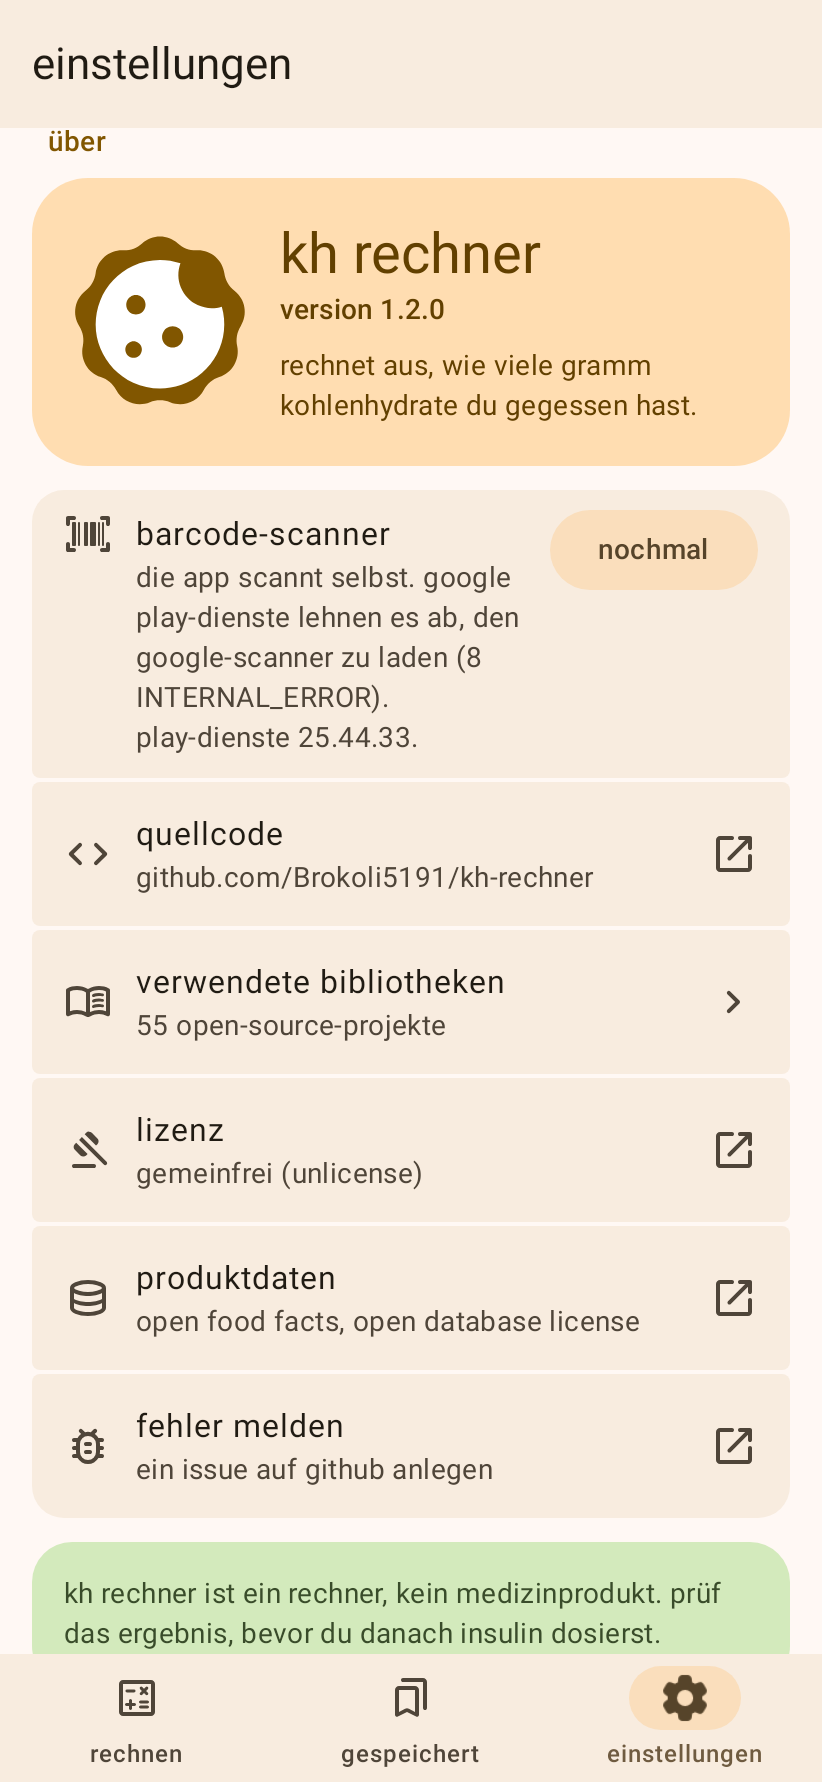
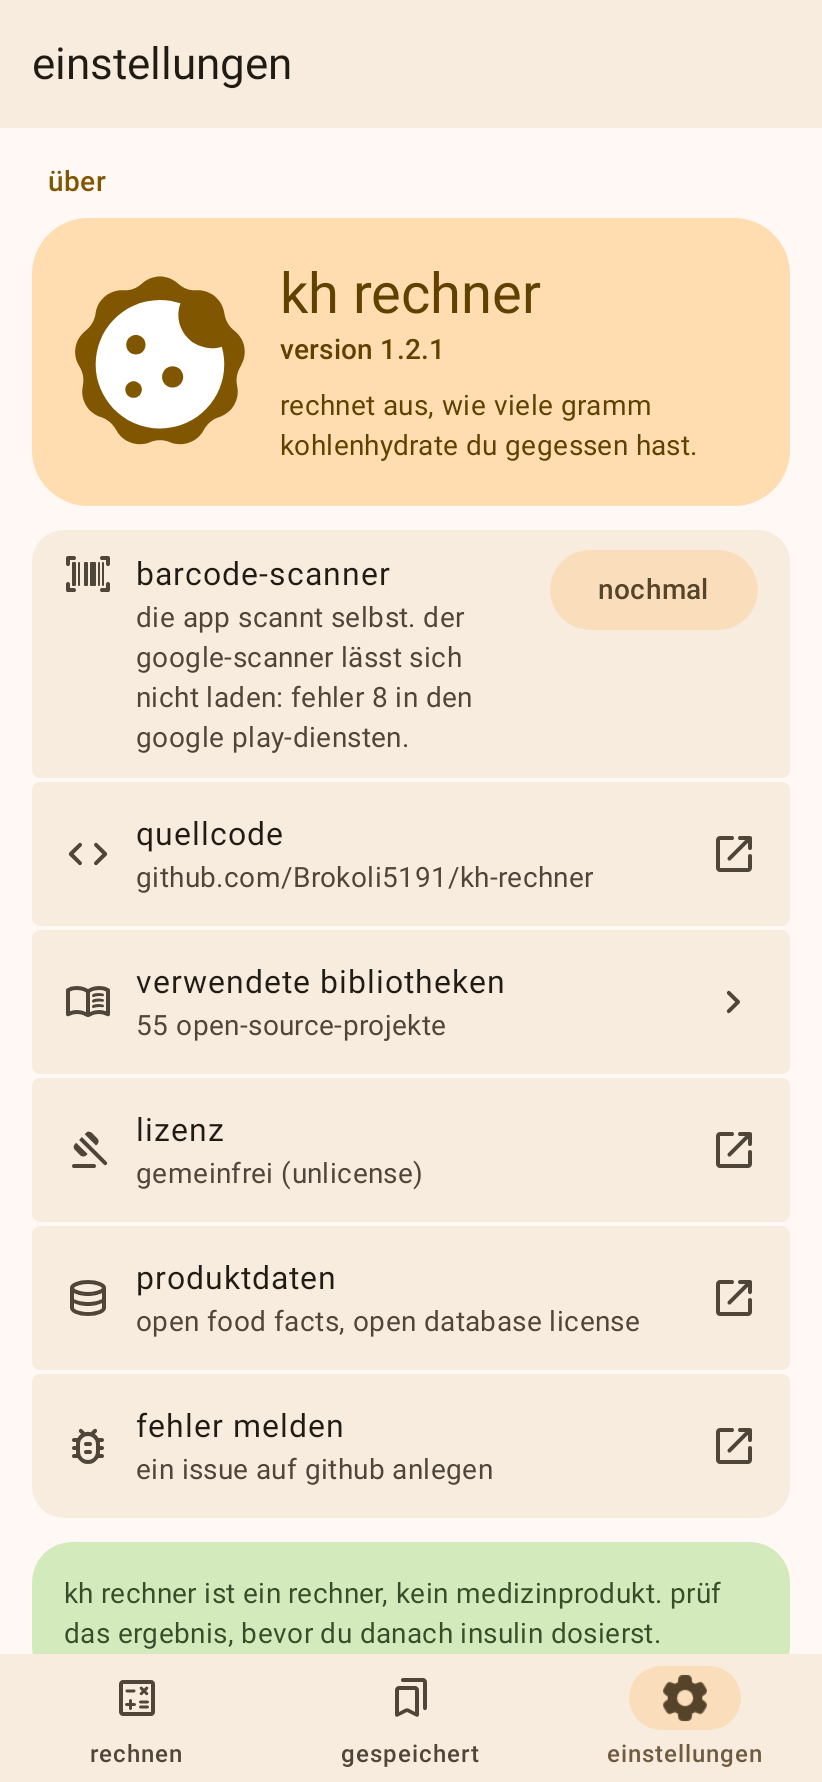
fix: say in one sentence why Google's scanner could not be loaded
The about page quoted whatever Play services attached to a failed module
download, which on a real phone was a long, log-like text. It now sorts the
status into what it means for the user (metered network, no storage, no
connection, not offered for this device, no answer, or an error inside
Play services with its code) and shows one sentence. The verbatim answer
still goes to logcat under the tag GmsBarcodeScanner.

The Play services version is no longer shown either.

Claude-Session: https://claude.ai/code/session_01LDEBWu4bzGKkwRLRNC82mk

Changed region(s): [[0.0304, 0.0617, 0.9732, 0.4321]]

diff --git a/app/src/main/kotlin/app/brokoli5191/khrechner/data/BarcodeScanner.kt b/app/src/main/kotlin/app/brokoli5191/khrechner/data/BarcodeScanner.kt
@@ -1,11 +1,11 @@
 package app.brokoli5191.khrechner.data
 
 import android.content.Context
-import android.content.pm.PackageManager
 import android.util.Log
 import com.google.android.gms.common.ConnectionResult
 import com.google.android.gms.common.GoogleApiAvailability
 import com.google.android.gms.common.api.ApiException
+import com.google.android.gms.common.api.CommonStatusCodes
 import com.google.android.gms.common.moduleinstall.InstallStatusListener
 import com.google.android.gms.common.moduleinstall.ModuleInstall
 import com.google.android.gms.common.moduleinstall.ModuleInstallRequest
@@ -47,20 +47,26 @@ sealed interface InstallUpdate {
     data class Failed(val reason: InstallFailure) : InstallUpdate
 }
 
-/** Why the module did not arrive. The three with a text carry it verbatim, for bug reports. */
+/**
+ * Why the module did not arrive, as far as it can be put in a sentence for the user. What Play
+ * services said word for word goes to the log, not to the screen.
+ */
 sealed interface InstallFailure {
     /** Play services refuses to download the module over a metered connection. */
     data object MeteredNetwork : InstallFailure
     data object NoStorage : InstallFailure
 
-    /** Play services answered the request with an error. [status] is its code and name, e.g. "8 INTERNAL_ERROR". */
-    data class Rejected(val status: String) : InstallFailure
+    /** The download needs a connection and did not get one. */
+    data object NoConnection : InstallFailure
 
-    /** Play services accepted the request and the download failed afterwards. */
-    data class DownloadFailed(val status: String) : InstallFailure
+    /** Play services does not hand this module to this device or this app. */
+    data object NotOffered : InstallFailure
 
-    /** The request never got an answer from Play services. [error] is the exception that stopped it. */
-    data class NotSent(val error: String) : InstallFailure
+    /** Play services could not be reached or never answered. */
+    data object NoAnswer : InstallFailure
+
+    /** Play services failed on its side. [code] is its status code; it does not say more than that. */
+    data class ServicesError(val code: Int) : InstallFailure
 }
 
 /** Google's barcode scanner as the app sees it. */
@@ -68,9 +74,6 @@ interface BarcodeScanner {
 
     /** False on devices without Google Play services. */
     val isSupported: Boolean
-
-    /** Version of Google Play services on this device, for the about page; null if there is none. */
-    val servicesVersion: String?
 
     suspend fun availability(): ScannerAvailability
 
@@ -95,13 +98,6 @@ class GmsBarcodeScanner(private val context: Context) : BarcodeScanner {
     } catch (_: RuntimeException) {
         false
     }
-
-    override val servicesVersion: String?
-        get() = try {
-            context.packageManager.getPackageInfo(GoogleApiAvailability.GOOGLE_PLAY_SERVICES_PACKAGE, 0).versionName
-        } catch (_: PackageManager.NameNotFoundException) {
-            null
-        }
 
     private val options = GmsBarcodeScannerOptions.Builder()
         .setBarcodeFormats(Barcode.FORMAT_EAN_13, Barcode.FORMAT_EAN_8, Barcode.FORMAT_UPC_A, Barcode.FORMAT_UPC_E)
@@ -129,8 +125,8 @@ class GmsBarcodeScanner(private val context: Context) : BarcodeScanner {
             when (update.installState) {
                 InstallState.STATE_COMPLETED -> finish(InstallUpdate.Done)
                 InstallState.STATE_FAILED, InstallState.STATE_CANCELED -> {
-                    Log.w(TAG, "scanner module download failed: ${statusText(update.errorCode)}")
-                    finish(InstallUpdate.Failed(failure(update.errorCode, InstallFailure::DownloadFailed)))
+                    Log.w(TAG, "scanner module download failed with status ${update.errorCode}")
+                    finish(InstallUpdate.Failed(failureFor(update.errorCode)))
                 }
                 else -> {
                     val progress = update.progressInfo?.takeIf { it.totalBytesToDownload > 0 }
@@ -147,16 +143,12 @@ class GmsBarcodeScanner(private val context: Context) : BarcodeScanner {
                 .addOnFailureListener { error ->
                     Log.w(TAG, "scanner module request failed", error)
                     // Play services answers with a status; anything else never reached it.
-                    val reason = if (error is ApiException) {
-                        failure(error.statusCode, InstallFailure::Rejected, error.status.statusMessage)
-                    } else {
-                        InstallFailure.NotSent(errorText(error))
-                    }
+                    val reason = if (error is ApiException) failureFor(error.statusCode) else InstallFailure.NoAnswer
                     finish(InstallUpdate.Failed(reason))
                 }
         } catch (e: RuntimeException) {
             Log.w(TAG, "scanner module request could not be made", e)
-            finish(InstallUpdate.Failed(InstallFailure.NotSent(errorText(e))))
+            finish(InstallUpdate.Failed(InstallFailure.NoAnswer))
         }
         awaitClose { modules.unregisterListener(listener) }
     }
@@ -184,12 +176,6 @@ class GmsBarcodeScanner(private val context: Context) : BarcodeScanner {
 
     private fun client(context: Context): GmsBarcodeScanner = GmsBarcodeScanning.getClient(context, options)
 
-    private fun failure(code: Int, other: (String) -> InstallFailure, message: String? = null): InstallFailure = when (code) {
-        ModuleInstallStatusCodes.METERED_NETWORK_NOT_ALLOWED -> InstallFailure.MeteredNetwork
-        ModuleInstallStatusCodes.INSUFFICIENT_STORAGE -> InstallFailure.NoStorage
-        else -> other(statusText(code, message))
-    }
-
     private class TaskCancelled : Exception()
 
     /** Minimal bridge from a Play services [Task] to a coroutine; not worth a library for two calls. */
@@ -202,17 +188,22 @@ class GmsBarcodeScanner(private val context: Context) : BarcodeScanner {
     internal companion object {
         private const val TAG = "GmsBarcodeScanner"
 
-        /** "8 INTERNAL_ERROR", plus whatever Play services added in words. */
-        internal fun statusText(code: Int, message: String? = null): String {
-            val name = ModuleInstallStatusCodes.getStatusCodeString(code)
-            // Codes without a name come back as "unknown status code: 123"; the number alone says the same.
-            val status = if (name.startsWith("unknown")) "$code" else "$code $name"
-            return if (message.isNullOrBlank() || message == name) status else "$status: ${message.trim()}"
-        }
-
-        internal fun errorText(error: Throwable): String {
-            val name = error.javaClass.simpleName.ifEmpty { error.javaClass.name }
-            return error.message?.takeIf(String::isNotBlank)?.let { "$name: ${it.trim()}" } ?: name
+        /** Sorts a Play services status code into what it means for the user. */
+        internal fun failureFor(code: Int): InstallFailure = when (code) {
+            ModuleInstallStatusCodes.METERED_NETWORK_NOT_ALLOWED -> InstallFailure.MeteredNetwork
+            ModuleInstallStatusCodes.INSUFFICIENT_STORAGE -> InstallFailure.NoStorage
+            ModuleInstallStatusCodes.UNKNOWN_MODULE,
+            ModuleInstallStatusCodes.NOT_ALLOWED_MODULE,
+            ModuleInstallStatusCodes.MODULE_NOT_FOUND,
+            -> InstallFailure.NotOffered
+            CommonStatusCodes.NETWORK_ERROR, CommonStatusCodes.TIMEOUT -> InstallFailure.NoConnection
+            CommonStatusCodes.API_NOT_CONNECTED,
+            CommonStatusCodes.REMOTE_EXCEPTION,
+            CommonStatusCodes.CONNECTION_SUSPENDED_DURING_CALL,
+            CommonStatusCodes.RECONNECTION_TIMED_OUT,
+            CommonStatusCodes.RECONNECTION_TIMED_OUT_DURING_UPDATE,
+            -> InstallFailure.NoAnswer
+            else -> InstallFailure.ServicesError(code)
         }
     }
 }

diff --git a/app/src/main/kotlin/app/brokoli5191/khrechner/ui/settings/AboutSection.kt b/app/src/main/kotlin/app/brokoli5191/khrechner/ui/settings/AboutSection.kt
@@ -48,9 +48,8 @@ internal object Links {
  *
  * @param status state of Google's scanner; while it is not ready the app scans with its own.
  * @param cameraAvailable false on a device without a camera, where nothing can scan.
- * @param servicesVersion version of Google Play services, quoted next to a failed download.
  */
-data class ScannerInfo(val status: ScannerStatus, val cameraAvailable: Boolean = true, val servicesVersion: String? = null)
+data class ScannerInfo(val status: ScannerStatus, val cameraAvailable: Boolean = true)
 
 /**
  * "über": what the app is, the state of the barcode scanner, and where its code, its building
@@ -205,10 +204,6 @@ private fun ScannerRow(scanner: ScannerInfo, index: Int, count: Int, onInstall: 
                     }
                 is ScannerStatus.InstallFailed -> status.reason.message()
             },
-            // Which Play services turned the download down is the first thing a bug report needs.
-            scanner.servicesVersion
-                ?.takeIf { status is ScannerStatus.InstallFailed }
-                ?.let { stringResource(R.string.scanner_services_version, it) },
         ).joinToString(" ")
     }
     SegmentedListItem(
@@ -234,14 +229,15 @@ private fun ScannerRow(scanner: ScannerInfo, index: Int, count: Int, onInstall: 
     )
 }
 
-/** Why Google's scanner did not arrive. The three with a detail quote it as Play services gave it. */
+/** Why Google's scanner did not arrive, in one sentence. The details are in the log. */
 @Composable
 private fun InstallFailure.message(): String = when (this) {
     InstallFailure.MeteredNetwork -> stringResource(R.string.scanner_install_failed_metered)
     InstallFailure.NoStorage -> stringResource(R.string.scanner_install_failed_storage)
-    is InstallFailure.Rejected -> stringResource(R.string.scanner_install_failed_rejected, status)
-    is InstallFailure.DownloadFailed -> stringResource(R.string.scanner_install_failed_download, status)
-    is InstallFailure.NotSent -> stringResource(R.string.scanner_install_failed_not_sent, error)
+    InstallFailure.NoConnection -> stringResource(R.string.scanner_install_failed_connection)
+    InstallFailure.NotOffered -> stringResource(R.string.scanner_install_failed_not_offered)
+    InstallFailure.NoAnswer -> stringResource(R.string.scanner_install_failed_no_answer)
+    is InstallFailure.ServicesError -> stringResource(R.string.scanner_install_failed_services, code)
 }
 
 @Composable

diff --git a/app/src/test/kotlin/app/brokoli5191/khrechner/data/ScannerControllerTest.kt b/app/src/test/kotlin/app/brokoli5191/khrechner/data/ScannerControllerTest.kt
@@ -18,7 +18,7 @@ class ScannerControllerTest {
 
     private val scanner = FakeScanner()
     private val context: Context get() = ApplicationProvider.getApplicationContext()
-    private val rejected = InstallFailure.Rejected("8 INTERNAL_ERROR")
+    private val rejected = InstallFailure.ServicesError(8)
 
     private fun TestScope.controller() = ScannerController(scanner, backgroundScope)
 
@@ -93,18 +93,15 @@ class ScannerControllerTest {
     }
 
     @Test
-    fun `play services errors are quoted with their number and name`() {
-        assertEquals("8 INTERNAL_ERROR", GmsBarcodeScanner.statusText(8))
-        assertEquals("46000 UNKNOWN_MODULE", GmsBarcodeScanner.statusText(46000))
-        assertEquals("8 INTERNAL_ERROR: module broker died", GmsBarcodeScanner.statusText(8, " module broker died "))
-        assertEquals("8 INTERNAL_ERROR", GmsBarcodeScanner.statusText(8, ""))
-        // A code Play services has no name for.
-        assertEquals("31337", GmsBarcodeScanner.statusText(31337))
-    }
-
-    @Test
-    fun `errors that never reached play services are quoted by class and message`() {
-        assertEquals("IllegalStateException: no binder", GmsBarcodeScanner.errorText(IllegalStateException("no binder")))
-        assertEquals("UnsupportedOperationException", GmsBarcodeScanner.errorText(UnsupportedOperationException()))
+    fun `status codes are sorted into what they mean for the user`() {
+        assertEquals(InstallFailure.MeteredNetwork, GmsBarcodeScanner.failureFor(46004))
+        assertEquals(InstallFailure.NoStorage, GmsBarcodeScanner.failureFor(46003))
+        for (code in listOf(46000, 46001, 46002)) assertEquals(InstallFailure.NotOffered, GmsBarcodeScanner.failureFor(code))
+        for (code in listOf(7, 15)) assertEquals(InstallFailure.NoConnection, GmsBarcodeScanner.failureFor(code))
+        for (code in listOf(17, 19, 20, 21, 22)) assertEquals(InstallFailure.NoAnswer, GmsBarcodeScanner.failureFor(code))
+        // Everything else is Play services' own trouble; the number is all there is to say.
+        assertEquals(InstallFailure.ServicesError(8), GmsBarcodeScanner.failureFor(8))
+        assertEquals(InstallFailure.ServicesError(13), GmsBarcodeScanner.failureFor(13))
+        assertEquals(InstallFailure.ServicesError(31337), GmsBarcodeScanner.failureFor(31337))
     }
 }

diff --git a/app/src/test/kotlin/app/brokoli5191/khrechner/ui/AppFlowTest.kt b/app/src/test/kotlin/app/brokoli5191/khrechner/ui/AppFlowTest.kt
@@ -355,16 +355,15 @@ class AppFlowTest {
     @Test
     fun `the about section says which scanner is in use and why`() {
         app.scanner.installed = false
-        app.scanner.installUpdates = listOf(InstallUpdate.Failed(InstallFailure.Rejected("8 INTERNAL_ERROR")))
+        app.scanner.installUpdates = listOf(InstallUpdate.Failed(InstallFailure.ServicesError(8)))
         compose.onNodeWithText("einstellungen").performClick()
         compose.onNodeWithText("barcode-scanner").performScrollTo()
         awaitText("die app scannt selbst. der google-scanner ist noch nicht geladen.")
 
         compose.onNodeWithText("laden").performClick()
-        awaitText(
-            "die app scannt selbst. google play-dienste lehnen es ab, den google-scanner zu laden (8 INTERNAL_ERROR). " +
-                "play-dienste 25.44.33.",
-        )
+        // One sentence: that it failed and why. No status text, no version, no stack trace.
+        awaitText("die app scannt selbst. der google-scanner lässt sich nicht laden: fehler 8 in den google play-diensten.")
+        compose.onNode(hasText("INTERNAL_ERROR", substring = true)).assertDoesNotExist()
 
         app.scanner.installUpdates = listOf(InstallUpdate.Failed(InstallFailure.MeteredNetwork))
         compose.onNodeWithText("nochmal").performClick()

diff --git a/app/src/test/kotlin/app/brokoli5191/khrechner/ui/ScreenshotTest.kt b/app/src/test/kotlin/app/brokoli5191/khrechner/ui/ScreenshotTest.kt
@@ -212,13 +212,13 @@ class ScreenshotTest {
     @Test
     fun aboutWhenGoogleScannerCannotBeLoaded() {
         app.scanner.installed = false
-        app.scanner.installUpdates = listOf(InstallUpdate.Failed(InstallFailure.Rejected("8 INTERNAL_ERROR")))
+        app.scanner.installUpdates = listOf(InstallUpdate.Failed(InstallFailure.ServicesError(8)))
         launch()
         compose.onNodeWithText("einstellungen").performClick()
         compose.onNodeWithText("barcode-scanner").performScrollTo()
         awaitText("noch nicht geladen")
         compose.onNodeWithText("laden").performClick()
-        awaitText("8 INTERNAL_ERROR")
+        awaitText("fehler 8")
         compose.onNode(hasText("kein medizinprodukt", substring = true)).performScrollTo()
         capture("settings-about-fallback")
     }

diff --git a/app/src/main/kotlin/app/brokoli5191/khrechner/ui/settings/SettingsViewModel.kt b/app/src/main/kotlin/app/brokoli5191/khrechner/ui/settings/SettingsViewModel.kt
@@ -47,9 +47,6 @@ class SettingsViewModel(
 
     val scannerStatus: StateFlow<ScannerStatus> = scanner.status
 
-    /** Version of Google Play services, quoted next to a failed scanner download. */
-    val servicesVersion: String? get() = scanner.servicesVersion
-
     /** Read once from the bundled list; empty until then. */
     val libraries: StateFlow<List<LibraryGroup>> = flow { emit(libraries.load()) }
         .stateIn(viewModelScope, SharingStarted.Eagerly, emptyList())

diff --git a/app/src/main/kotlin/app/brokoli5191/khrechner/ui/settings/SettingsScreen.kt b/app/src/main/kotlin/app/brokoli5191/khrechner/ui/settings/SettingsScreen.kt
@@ -113,7 +113,7 @@ fun SettingsScreen(viewModel: SettingsViewModel, settings: Settings, onOpenLibra
 
     SettingsContent(
         settings = settings,
-        scanner = ScannerInfo(scannerStatus, viewModel.cameraAvailable, viewModel.servicesVersion),
+        scanner = ScannerInfo(scannerStatus, viewModel.cameraAvailable),
         libraryCount = libraries.size,
         snackbar = snackbar,
         onInstallScanner = viewModel::installScanner,

diff --git a/app/src/main/kotlin/app/brokoli5191/khrechner/data/ScannerController.kt b/app/src/main/kotlin/app/brokoli5191/khrechner/data/ScannerController.kt
@@ -32,8 +32,6 @@ class ScannerController(
 
     val isSupported: Boolean get() = scanner.isSupported
 
-    val servicesVersion: String? get() = scanner.servicesVersion
-
     private val _status = MutableStateFlow(if (scanner.isSupported) ScannerStatus.Checking else ScannerStatus.Unsupported)
     val status: StateFlow<ScannerStatus> = _status.asStateFlow()
 

diff --git a/app/src/test/kotlin/app/brokoli5191/khrechner/TestApplication.kt b/app/src/test/kotlin/app/brokoli5191/khrechner/TestApplication.kt
@@ -58,8 +58,6 @@ class FakeScanner : BarcodeScanner {
 
     override val isSupported: Boolean get() = supported
 
-    override val servicesVersion: String = "25.44.33"
-
     override suspend fun availability(): ScannerAvailability =
         if (installed) ScannerAvailability.READY else ScannerAvailability.NOT_INSTALLED
 

diff --git a/docs/BUILDING.md b/docs/BUILDING.md
@@ -56,8 +56,9 @@ reading it, limited to EAN and UPC. `CalculatorViewModel.scanBarcode` tries Goog
 and opens the built-in one when Google's reports that it cannot run. Only the built-in scanner
 asks for the camera permission.
 
-The about page says which scanner is in use. If Google's module could not be loaded, it quotes the
-status Play services gave and the Play services version. A bug report should include that line.
+The about page says which scanner is in use. If Google's module could not be loaded, it says why
+in one sentence. What Play services answered word for word is in logcat under the tag
+`GmsBarcodeScanner`.
 
 `BarcodeDecoder` holds the ZXing part and is plain JVM code. Its tests draw barcodes with ZXing's
 writer and feed them in as camera frames, upright and turned by a quarter. The camera itself is
